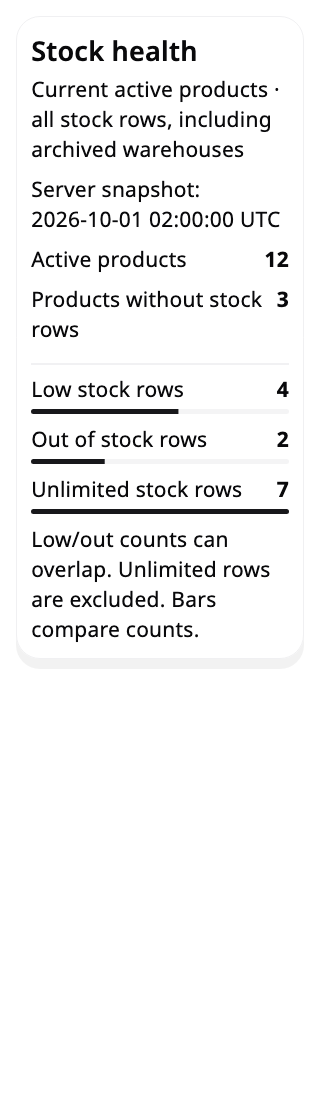
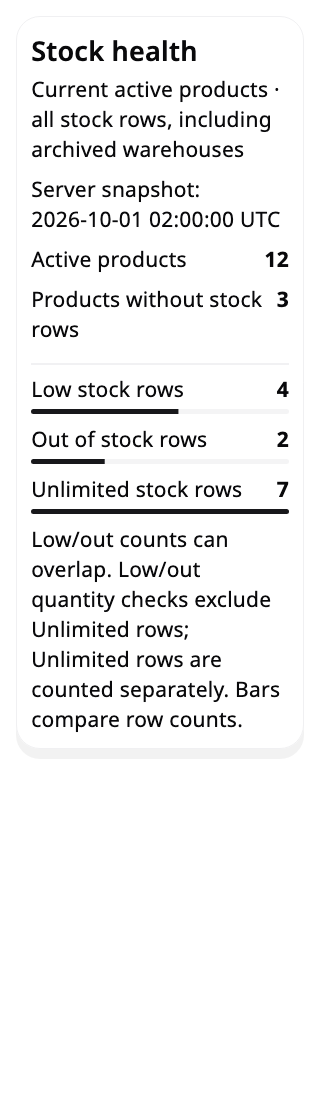
fix(mobile): clarify stock health scope and capture evidence

Changed region(s): [[0.0938, 0.4945, 0.875, 0.68]]

diff --git a/apps/mobile/test/features/inventory/stock_health/inventory_stock_health_test.dart b/apps/mobile/test/features/inventory/stock_health/inventory_stock_health_test.dart
@@ -99,6 +99,31 @@ void main() {
     )..addFont(rootBundle.load('assets/fonts/NotoSans.ttf'))).load();
   });
 
+  testWidgets('Vietnamese overlap wording preserves separate unlimited count', (
+    tester,
+  ) async {
+    await tester.pumpApp(
+      Builder(
+        builder: (context) => Localizations.override(
+          context: context,
+          locale: const Locale('vi'),
+          child: _panel(
+            Future.value(InventoryStockHealth.fromJson(_payload())),
+          ),
+        ),
+      ),
+    );
+    await tester.pumpAndSettle();
+    expect(find.text('Dòng tồn kho không giới hạn'), findsOneWidget);
+    expect(find.text('7'), findsOneWidget);
+    expect(
+      find.textContaining('không tính dòng không giới hạn'),
+      findsOneWidget,
+    );
+    expect(find.textContaining('các dòng này được đếm riêng'), findsOneWidget);
+    expect(tester.takeException(), isNull);
+  });
+
   test('complete count scope preserves server UTC and ignores money/units', () {
     final data = InventoryStockHealth.fromJson(_payload());
     expect(data.generatedAt, DateTime.utc(2026, 10, 1, 2));
@@ -196,6 +221,10 @@ void main() {
           find.textContaining('Low/out counts can overlap'),
           findsOneWidget,
         );
+        expect(
+          find.textContaining('Unlimited rows are counted separately'),
+          findsOneWidget,
+        );
         expect(find.textContaining('999999'), findsNothing);
         final bars = tester.widgetList<LinearProgressIndicator>(
           find.byType(LinearProgressIndicator),
@@ -211,6 +240,7 @@ void main() {
             final bytes = await image.toByteData(
               format: ui.ImageByteFormat.png,
             );
+            await Directory(directory).create(recursive: true);
             await File(
               '$directory/stock-health-${width.toInt()}.png',
             ).writeAsBytes(bytes!.buffer.asUint8List());

diff --git a/apps/mobile/lib/l10n/gen/app_localizations_vi.dart b/apps/mobile/lib/l10n/gen/app_localizations_vi.dart
@@ -9438,7 +9438,7 @@ class AppLocalizationsVi extends AppLocalizations {
   }
 
   @override
-  String get inventoryStockHealthIncomplete => 'Ảnh chụp chưa đầy đủ: thiếu một số số đếm hoặc thời gian máy chủ.';
+  String get inventoryStockHealthIncomplete => 'Ảnh chụp chưa đầy đủ: một vài số đếm hoặc thời gian máy chủ bị thiếu.';
 
   @override
   String get inventoryStockHealthUnavailable => 'Không thể tải tình trạng tồn kho. Kéo để làm mới và thử lại.';
@@ -9465,7 +9465,7 @@ class AppLocalizationsVi extends AppLocalizations {
   String get inventoryStockHealthUnlimited => 'Dòng tồn kho không giới hạn';
 
   @override
-  String get inventoryStockHealthOverlap => 'Số dòng thấp/hết hàng có thể trùng nhau. Loại trừ dòng không giới hạn. Biểu đồ so sánh số đếm.';
+  String get inventoryStockHealthOverlap => 'Số dòng thấp/hết hàng có thể trùng nhau. Kiểm tra thấp/hết hàng theo số lượng không tính dòng không giới hạn; các dòng này được đếm riêng. Biểu đồ so sánh số dòng.';
 
   @override
   String get inventoryStockHealthUnknown => 'Chưa có dữ liệu';

diff --git a/apps/mobile/lib/l10n/gen/app_localizations_en.dart b/apps/mobile/lib/l10n/gen/app_localizations_en.dart
@@ -9531,7 +9531,7 @@ class AppLocalizationsEn extends AppLocalizations {
   String get inventoryStockHealthUnlimited => 'Unlimited stock rows';
 
   @override
-  String get inventoryStockHealthOverlap => 'Low/out counts can overlap. Unlimited rows are excluded. Bars compare counts.';
+  String get inventoryStockHealthOverlap => 'Low/out counts can overlap. Low/out quantity checks exclude Unlimited rows; Unlimited rows are counted separately. Bars compare row counts.';
 
   @override
   String get inventoryStockHealthUnknown => 'Unavailable';

diff --git a/apps/mobile/lib/l10n/gen/app_localizations.dart b/apps/mobile/lib/l10n/gen/app_localizations.dart
@@ -18196,7 +18196,7 @@ abstract class AppLocalizations {
   /// No description provided for @inventoryStockHealthOverlap.
   ///
   /// In en, this message translates to:
-  /// **'Low/out counts can overlap. Unlimited rows are excluded. Bars compare counts.'**
+  /// **'Low/out counts can overlap. Low/out quantity checks exclude Unlimited rows; Unlimited rows are counted separately. Bars compare row counts.'**
   String get inventoryStockHealthOverlap;
 
   /// No description provided for @inventoryStockHealthUnknown.

diff --git a/.github/screenshots/inventory-stock-health/backend-analytics-correctness.md b/.github/screenshots/inventory-stock-health/backend-analytics-correctness.md
@@ -10,7 +10,7 @@ Source-only audit at `b7201ce5f6cf437faa581bb6b59dd1f7a37d2456`. No database, fi
 
 3. **Gross/net intent is undefined.** Checkout branch includes only `status = 'completed'`; invoice branch uses `coalesce(completed_at, created_at)` and product-line existence without equivalent completion/cancellation predicate. No refund rows/amounts are referenced. `invoice.paid_amount` and checkout `total_amount` are different money concepts. Source proves absent explicit refund adjustment, not that production refunds are lost: upstream status/amount mutation behavior must be established. `estimatedGrossProfit` at lines 374–375 multiplies revenue by costing-scenario margin; it is an estimate, not realized margin from historical cost of goods.
 
-4. **Historical prices and reporting dates differ in certainty.** Invoice line revenue uses stored line amount × stored price; checkout lines use stored subtotal normalized by currency (lines 112–115 and 141–144). Current catalog prices are not used for this revenue calculation. Product/category/owner labels can use current metadata. Date buckets use `current_date` and timestamp `::date` (lines 20–34, 42, 77); the API lacks an explicit reporting timezone. Do not claim workspace-local day boundaries without a stated DB-session timezone contract.
+4. **Historical prices and reporting dates differ in certainty.** Invoice line revenue uses stored line amount × stored price; checkout lines use stored subtotal normalized by currency (lines 108–110 and 136–139). Current catalog prices are not used for this revenue calculation. Product/category/owner labels can use current metadata. Date buckets use `current_date` and timestamp `::date` (lines 20–34, 42, 77); the API lacks an explicit reporting timezone. Do not claim workspace-local day boundaries without a stated DB-session timezone contract.
 
 ## Synthetic fixture design for a later admitted DB lane
 
@@ -27,4 +27,4 @@ Route tests should verify authorized canonical workspace IDs, 403, currency argu
 
 ## Stock lineage admission
 
-`20260718095942_inventory_analytics_and_storefront_setup.sql:118` filters active products by workspace/nonarchived; lines 124–154 join stock only by product and count setup, low, out and unlimited rows. No warehouse join/filter appears, so **every proposed row metric and stocked-product count includes rows in archived warehouses**. Active-product count itself is independent of warehouse status. Low/out overlap follows independent predicates at lines 136/139. Null quantities enter unlimited only. The sales wrapper preserves these stock-summary fields (`20260722175259...sql:472`). Warehouse-health CTE has a broader archive treatment and is excluded from the mobile slice.
+`20260718095942_inventory_analytics_and_storefront_setup.sql:118` filters active products by workspace/nonarchived; lines 124–154 join stock only by product and count setup, low, out and unlimited rows. No warehouse join/filter appears, so **every proposed row metric and stocked-product count includes rows in archived warehouses**. Active-product count itself is independent of warehouse status. Low/out overlap follows independent predicates at lines 136/139. Null quantities enter unlimited only. The sales wrapper preserves these stock-summary fields by merging the base summary (`20260722175259_inventory_analytics_checkout_sales.sql:476–480`). Warehouse-health CTE has a broader archive treatment and is excluded from the mobile slice.
